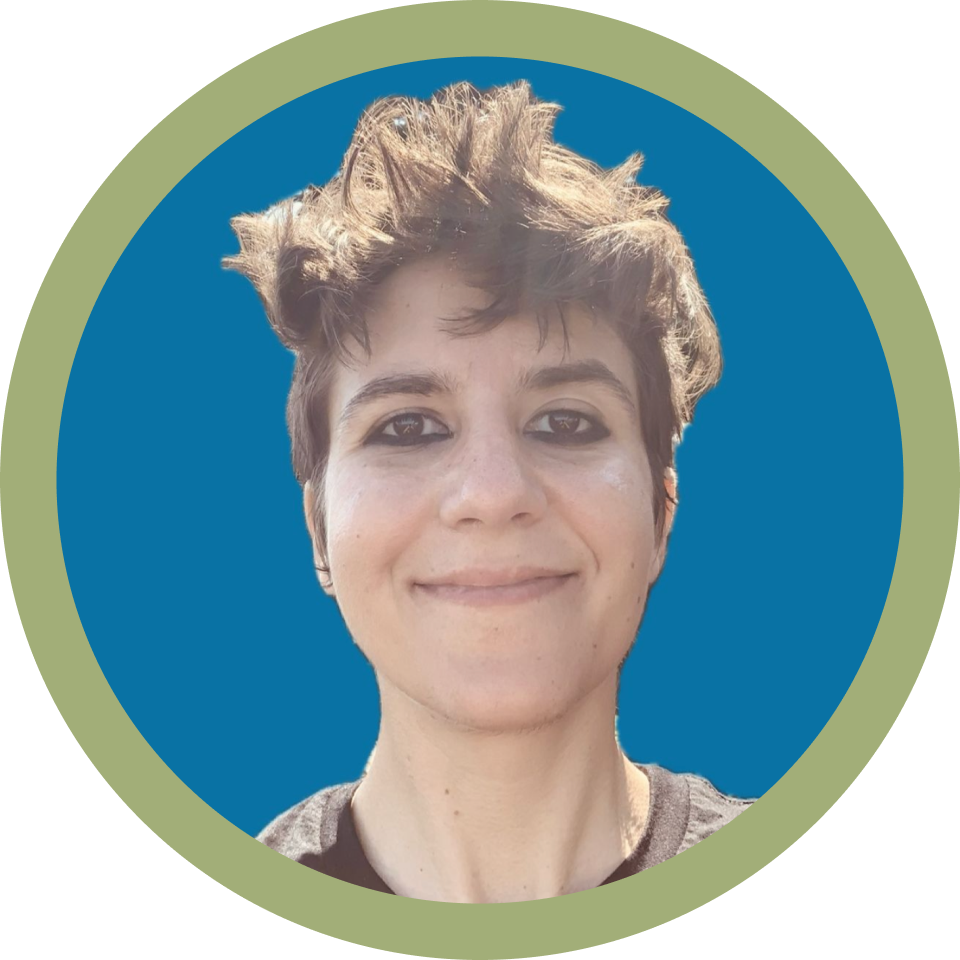
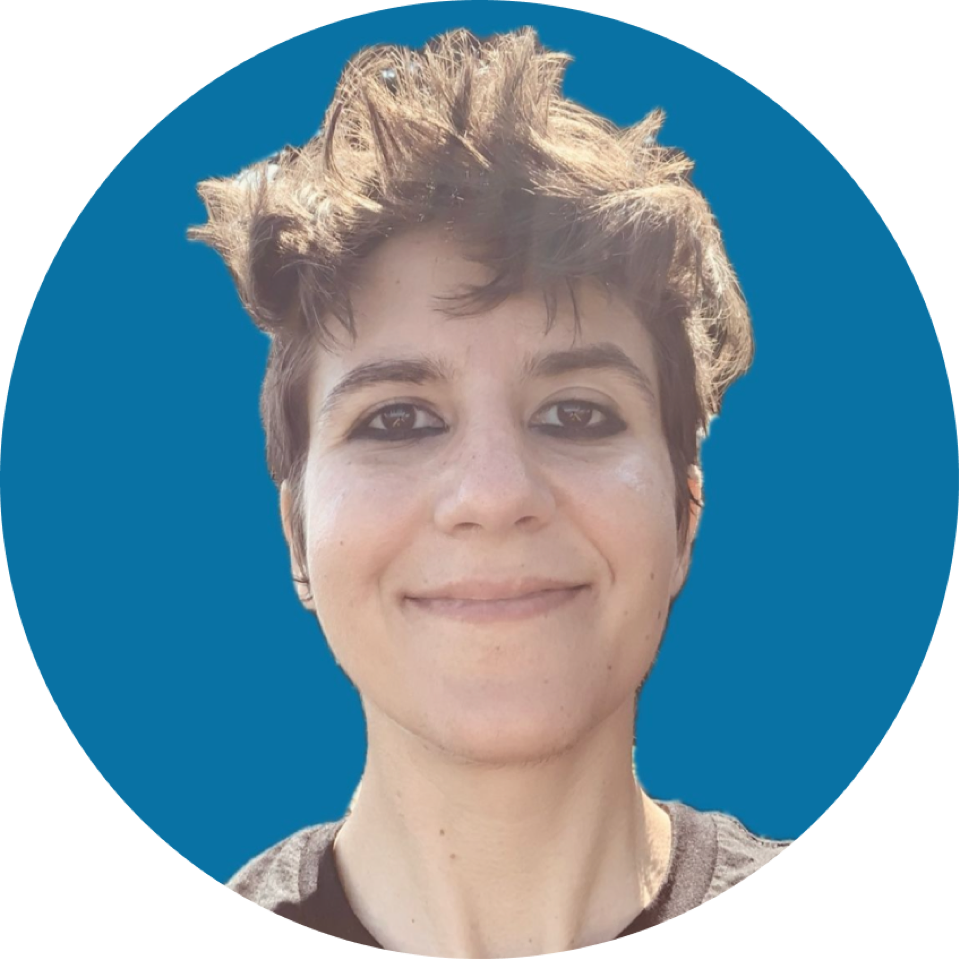
Replace Barbara with Elpida Fragkou and polish testimonials section
- Swap Barbara Borges for Elpida Fragkou across all testimonial data and agent knowledge
- Update quotes, pill color (#8B975C), and image to quotes-Elpida.webp
- Add third Elpida sticky note (Design Systems quote) on desktop canvas
- Add bold emphasis to key words across all Elpida, Abhishek, and Ina sticky notes (desktop + mobile)
- Cap Elpida mobile slips to 2; add slice(0,2) to mobile slip renderer
- Shift Sofia group and +1 emoji 50px left; nudge fire emoji 20px up
- Adjust third Elpida note: wider (220px) and repositioned (x:720, y:420)
- Regenerate all people webp images from updated PNGs

diff --git a/src/components/InfiniteCardSlider.vue b/src/components/InfiniteCardSlider.vue
@@ -47,40 +47,42 @@ const notes: DesktopNote[] = [
   { text: 'She is <strong>data driven</strong> and has the ability to break down opaque problems into tangible product solutions.', rotate: -3, color: '#c4d0cd', x: 254, y: 33, z: 1, maxW: 150 },
   { text: 'Her <strong>communication</strong> and <strong>stakeholder management</strong> ensured that all entities were on the same page and moved towards a common objective.', rotate: -1, color: '#c4d0cd', x: 48, y: 272, z: 2, maxW: 180, noSquare: true },
   // Ina Arnaoudova
-  { text: 'Timea continuously drives <strong>Design System</strong> topics for her team and wider Design Org.', rotate: -0.5, color: '#B1E0DD', x: 463, y: 24, z: 2, maxW: 150, pill: { name: 'Ina Arnaoudova', role: 'Head of Design', image: '/main-page/quotes-Ina.png', ringColor: '#47B1AC', pillOffsetX: 0, pillOffsetY: 215 } },
+  { text: 'Timea continuously drives <strong>Design System</strong> topics for her team and wider Design Org.', rotate: -0.5, color: '#B1E0DD', x: 463, y: 24, z: 2, maxW: 150, pill: { name: 'Ina Arnaoudova', role: 'Head of Design', image: '/main-page/quotes-Ina.webp', ringColor: '#47B1AC', pillOffsetX: 0, pillOffsetY: 215 } },
   { text: 'She has a true talent for <strong>systems thinking</strong> and thrives on <strong>order</strong>.', rotate: -1.5, color: '#B1E0DD', x: 605, y: 60, z: 3, maxW: 150 },
   { text: 'She co-leads major projects, organizes collaboration within Miro, and bridges stakeholders, all while delivering <strong>high-quality design work</strong>.', rotate: 3, color: '#B1E0DD', x: 259, y: 206, z: 4 },
   { text: 'She consistently examines issues from <strong>multiple perspectives</strong>, ensuring a thorough understanding of project requirements.', rotate: -3, color: '#B1E0DD', x: 631, y: 232, z: 1 },
   { text: 'Her proactiveness, process, and <strong>dedication</strong> make her <strong>stand out</strong>, and she excels beyond her designer duties.', rotate: 1.2, color: '#B1E0DD', x: 459, y: 239, z: 3, maxW: 160 },
   // Elpida Fragkou
-  { text: 'Timea always tackles <strong>design problems</strong> thoroughly and backs them up with <strong>research</strong>.', rotate: 1.2, color: '#CED4B8', x: 794, y: 56, z: 5, pill: { name: 'Elpida Fragkou', role: 'User Research Lead', image: '/main-page/quotes-Elpida.png', ringColor: '#A2AE78' } },
-  { text: "She's very organised, with <strong>impeccable Figma files</strong>, and she helps us stay organised in Confluence as well.", rotate: -0.5, color: '#CED4B8', x: 829, y: 228, z: 1 },
+  { text: "Timea is one of the most <strong>analytical</strong>, methodical, organized, and <strong>data-driven</strong> Product Designers I've ever had the chance to work with.", rotate: 1.2, color: '#CED4B8', x: 794, y: 56, z: 5, pill: { name: 'Elpida Fragkou', role: 'User Research Lead', image: '/main-page/quotes-Elpida.webp', ringColor: '#8B975C' } },
+  { text: "Timea's <strong>impeccable work ethic</strong>, strong values, dedication to her craft, and collaborative style make her a pleasure to work with.", rotate: -0.5, color: '#CED4B8', x: 829, y: 228, z: 1 },
+  { text: 'Her exceptional work on <strong>Design Systems</strong> complements her strong product design skills, making her an <strong>invaluable</strong> member of any design team.', rotate: 1.5, color: '#CED4B8', x: 720, y: 420, z: 3, maxW: 220, noSquare: true },
   // Sofia Tiira
-  { text: "One of Timea's absolute strengths is breaking down complex topics into <strong>actionable steps</strong>.", rotate: 5, color: '#EEAF90', x: 228, y: 463, z: 5 },
-  { text: "She approaches every problem <strong>analytically</strong> and has a lot of skill in connecting team or design level projects to <strong>company goals</strong>.", rotate: 1, color: '#EEAF90', x: 402, y: 462, z: 2, pill: { name: 'Sofia Tiira', role: 'Senior Content Designer', image: '/main-page/quotes-Sofia.webp', ringColor: '#CC7B78' } },
-  { text: "In OKR plannings, I've witnessed Timea help the team maintain a focus on <strong>long-term goals</strong> while staying aligned with business priorities.", rotate: -1.2, color: '#EEAF90', x: 586, y: 454, z: 4 },
+  { text: "One of Timea's absolute strengths is breaking down complex topics into <strong>actionable steps</strong>.", rotate: 5, color: '#EEAF90', x: 178, y: 463, z: 5 },
+  { text: "She approaches every problem <strong>analytically</strong> and has a lot of skill in connecting team or design level projects to <strong>company goals</strong>.", rotate: 1, color: '#EEAF90', x: 352, y: 462, z: 2, pill: { name: 'Sofia Tiira', role: 'Senior Content Designer', image: '/main-page/quotes-Sofia.webp', ringColor: '#CC7B78' } },
+  { text: "In OKR plannings, I've witnessed Timea help the team maintain a focus on <strong>long-term goals</strong> while staying aligned with business priorities.", rotate: -1.2, color: '#EEAF90', x: 536, y: 454, z: 4 },
 ]
 
 const people: Person[] = [
-  { name: 'Ina Arnaoudova', role: 'Head of Design @ Ecosia', image: '/main-page/quotes-Ina.png', ringColor: '#47B1AC', noteColor: '#B1E0DD',
+  { name: 'Ina Arnaoudova', role: 'Head of Design @ Ecosia', image: '/main-page/quotes-Ina.webp', ringColor: '#47B1AC', noteColor: '#B1E0DD',
     slips: [
-      { text: 'Timea continuously drives Design System topics for her team and wider Design Org.', rotate: -0.5 },
+      { text: 'Timea continuously drives <strong>Design System</strong> topics for her team and wider Design Org.', rotate: -0.5 },
       { text: 'She has a true talent for <strong>systems thinking</strong> and thrives on <strong>order</strong>.', rotate: -1.5 },
     ] },
   { name: 'Abhishek Juneja', role: 'Engineering Manager @ Ecosia', image: '/main-page/quotes-Abhishek.webp', ringColor: '#3a655a', noteColor: '#c4d0cd',
     slips: [
-      { text: 'Timea has been pivotal in helping me understand key concepts from design thinking and systems thinking in a way that these skills can be transferred to an engineering domain.', rotate: 0.8 },
-      { text: 'She is data driven and has the ability to break down opaque problems into tangible product solutions.', rotate: 1.5 },
+      { text: 'Timea has been <strong>pivotal</strong> in helping me understand key concepts from design thinking and <strong>systems thinking</strong> in a way that these skills can be transferred to an engineering domain.', rotate: 0.8 },
+      { text: 'She is <strong>data driven</strong> and has the ability to break down opaque problems into tangible product solutions.', rotate: 1.5 },
     ] },
   { name: 'Sofia Tiira', role: 'Senior Content Designer @ Ecosia', image: '/main-page/quotes-Sofia.webp', ringColor: '#CC7B78', noteColor: '#EEAF90',
     slips: [
       { text: "One of Timea's absolute strengths is breaking down complex topics into <strong>actionable steps</strong>.", rotate: -0.7 },
       { text: "She approaches every problem <strong>analytically</strong> and has a lot of skill in connecting team or design level projects to <strong>company goals</strong>.", rotate: 1 },
     ] },
-  { name: 'Elpida Fragkou', role: 'User Research Lead @ Ecosia', image: '/main-page/quotes-Elpida.png', ringColor: '#A2AE78', noteColor: '#CED4B8',
+  { name: 'Elpida Fragkou', role: 'User Research Lead @ Ecosia', image: '/main-page/quotes-Elpida.webp', ringColor: '#8B975C', noteColor: '#CED4B8',
     slips: [
-      { text: 'Timea always tackles <strong>design problems</strong> thoroughly and backs them up with <strong>research</strong>.', rotate: 1.2 },
-      { text: "She's very organised, with <strong>impeccable Figma files</strong>, and she helps us stay organised in Confluence as well.", rotate: -0.5 },
+      { text: "Timea is one of the most <strong>analytical</strong>, methodical, organized, and <strong>data-driven</strong> Product Designers I've ever had the chance to work with.", rotate: 1.2 },
+      { text: "Timea's <strong>impeccable work ethic</strong>, strong values, dedication to her craft, and collaborative style make her a pleasure to work with.", rotate: -0.5 },
+      { text: 'Her exceptional work on <strong>Design Systems</strong> complements her strong product design skills, making her an <strong>invaluable</strong> member of any design team.', rotate: 1.5 },
     ] },
 ]
 
@@ -141,8 +143,8 @@ onMounted(() => {
       <img src="/main-page/sparkles.svg"  alt="" aria-hidden="true" style="position:absolute;left:590px;top:20px;width:52px;pointer-events:none;z-index:1000;transform:rotate(-15deg);" />
       <img src="/main-page/thumbs-up.svg" alt="" aria-hidden="true" style="position:absolute;left:190px;top:220px;width:68px;pointer-events:none;z-index:1000;transform:rotate(-8deg);" />
       <img src="/main-page/heart.svg"     alt="" aria-hidden="true" style="position:absolute;left:415px;top:340px;width:53px;pointer-events:none;z-index:1000;transform:rotate(-6deg);" />
-      <img src="/main-page/+1.svg"        alt="" aria-hidden="true" style="position:absolute;left:555px;top:590px;width:50px;pointer-events:none;z-index:1000;transform:rotate(10deg);" />
-      <img src="/main-page/fire.svg"      alt="" aria-hidden="true" style="position:absolute;left:940px;top:190px;width:58px;pointer-events:none;z-index:1000;transform:rotate(8deg);" />
+      <img src="/main-page/+1.svg"        alt="" aria-hidden="true" style="position:absolute;left:505px;top:590px;width:50px;pointer-events:none;z-index:1000;transform:rotate(10deg);" />
+      <img src="/main-page/fire.svg"      alt="" aria-hidden="true" style="position:absolute;left:940px;top:170px;width:58px;pointer-events:none;z-index:1000;transform:rotate(8deg);" />
     </div>
   </div>
 
@@ -157,7 +159,7 @@ onMounted(() => {
         </div>
       </div>
       <div class="flex gap-3 justify-center w-full">
-        <div v-for="slip in person.slips" :key="slip.text" class="w-[182px]">
+        <div v-for="slip in person.slips.slice(0, 2)" :key="slip.text" class="w-[182px]">
           <StickyNote :rotate="slip.rotate" :color="person.noteColor" class="w-full">
             <div class="text-center" v-html="slip.text"></div>
           </StickyNote>

diff --git a/src/data/timeaAgentKnowledge.ts b/src/data/timeaAgentKnowledge.ts
@@ -797,7 +797,7 @@ export const KNOWLEDGE: KnowledgeEntry[] = [
       'colleagues think',
     ],
     answer:
-      "People I've worked with describe me as: systems-thinking and structured (Ina, Head of Design at Ecosia), data-driven and great at breaking down opaque problems (Abhishek, Engineering Manager), good at connecting projects to company goals (Sofia, Content Designer), and proactive with research-backed decisions and organised Figma files (Elpida, User Research Lead).",
+      "People I've worked with describe me as: systems-thinking and structured (Ina, Head of Design at Ecosia), data-driven and great at breaking down opaque problems (Abhishek, Engineering Manager), good at connecting projects to company goals (Sofia, Content Designer), and analytical, methodical, organized, and data-driven with impeccable work ethic and a collaborative style (Elpida, User Research Lead).",
   },
 
   // Projects / portfolio / case studies
